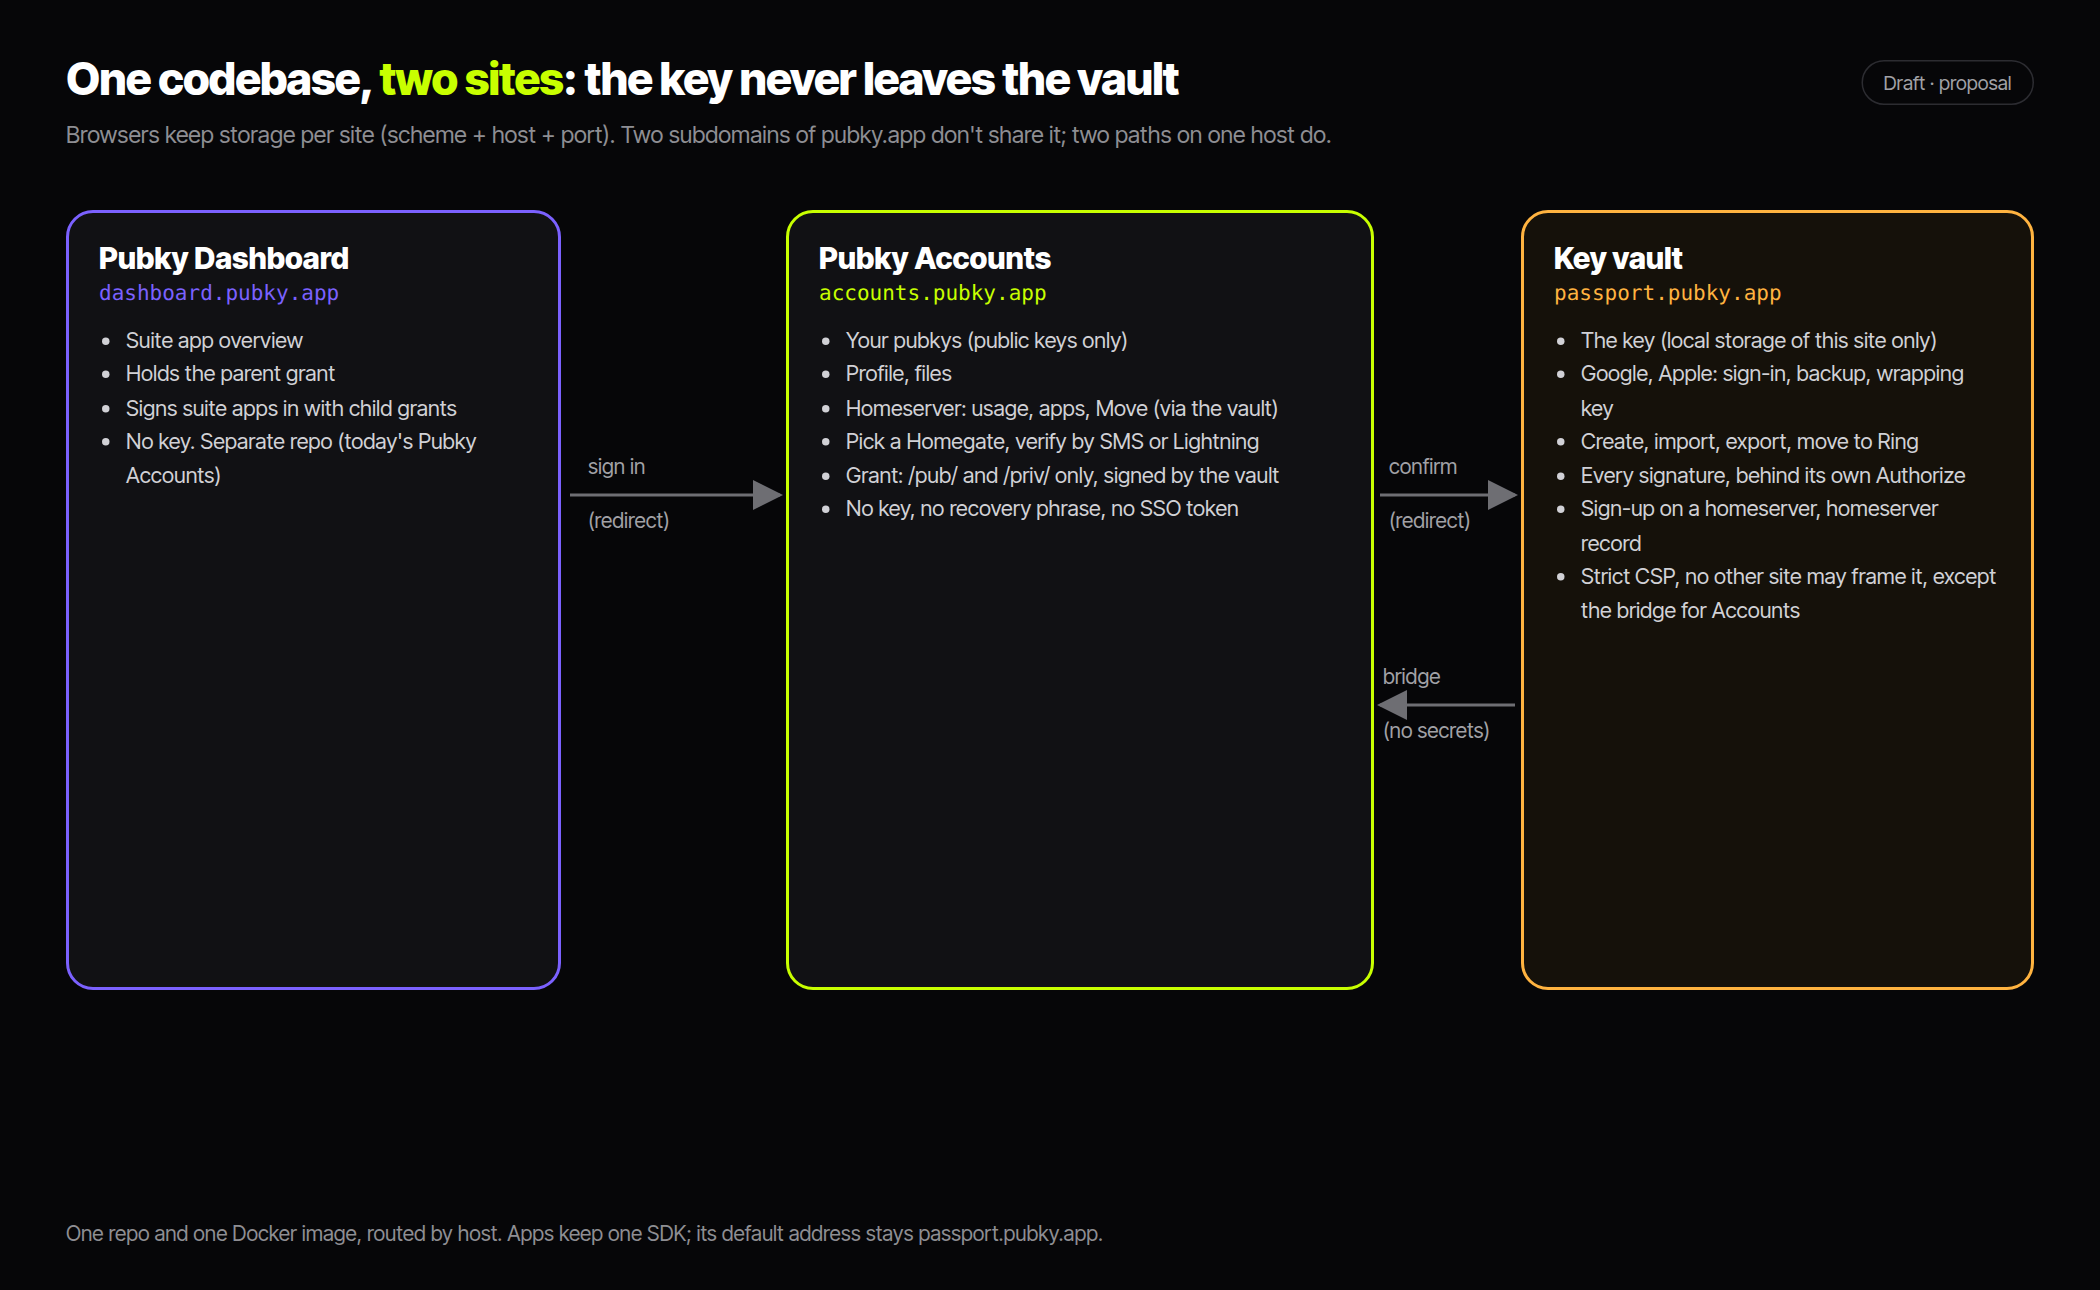
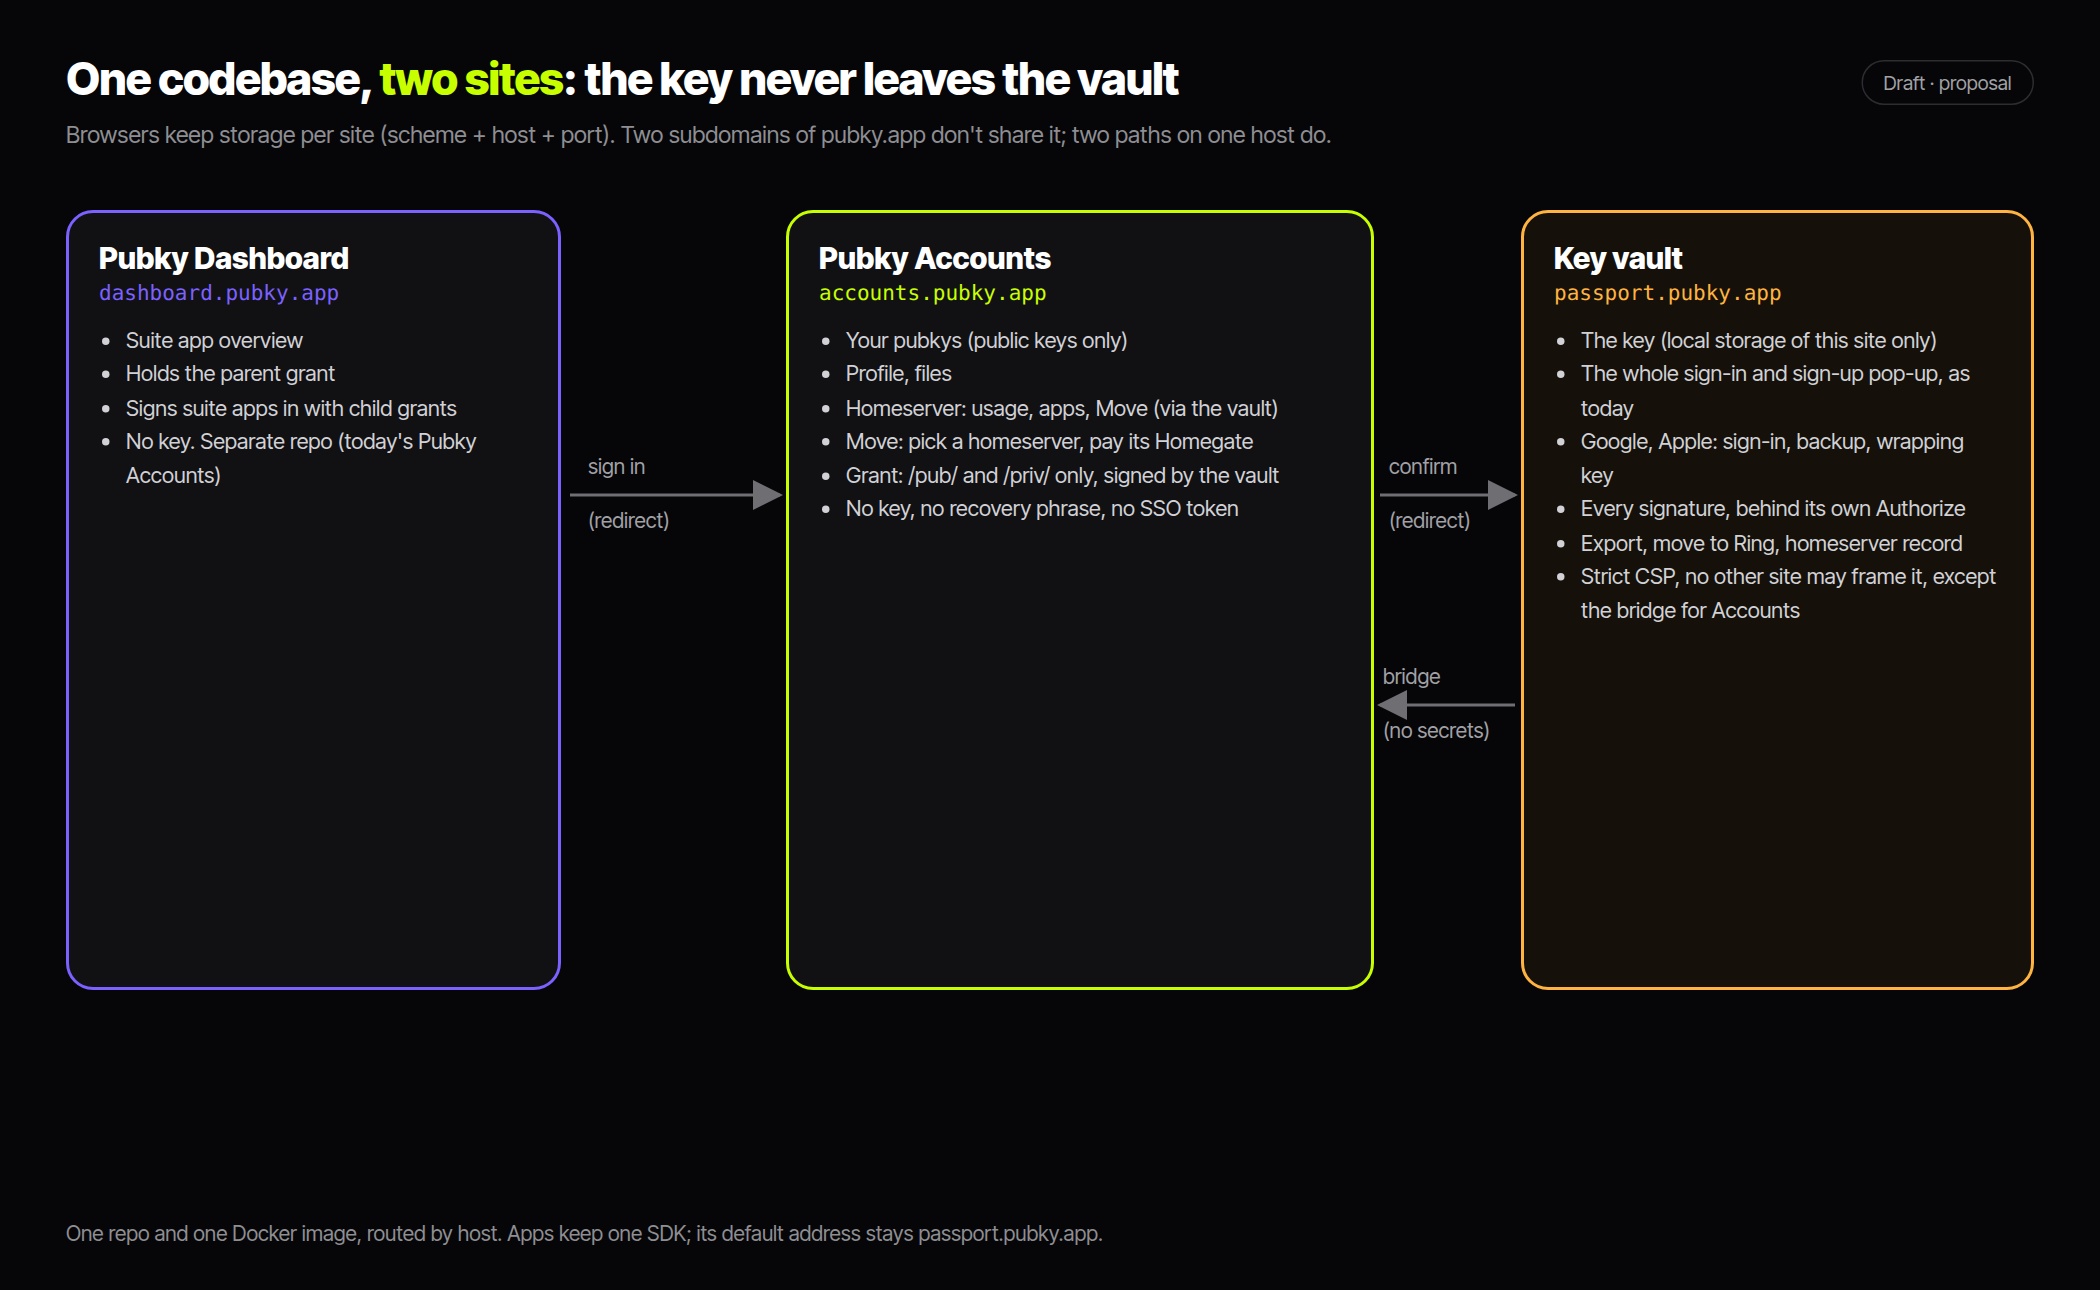
docs: key vault design, same screens, mockups, bridge and self-hosting

Changed region(s): [[0.7429, 0.2791, 0.9286, 0.4341], [0.4024, 0.3101, 0.5881, 0.3721]]

diff --git a/README.md b/README.md
@@ -45,20 +45,54 @@ If you'd rather show `vault.accounts.pubky.app`, the extra work is listed under 
 **Pubky Accounts** (`accounts.pubky.app`): everything else.
 
 - Your pubkys, from the bridge: public keys, labels and backup status only.
-- Profile, files, homeserver usage, authorized apps.
-- Onboarding steps that need no key: pick a Homegate, verify by SMS or Lightning, the profile step.
+- Profile editing, files, homeserver usage, authorized apps: everything that shows data from the homeserver.
+- Move and Mirror up to the key step: pick a homeserver and pay its Homegate.
 - Its own homeserver session: a grant for client id `accounts.pubky.app` with `/pub/:rw,/priv/:rw`. This is the same cap an Accounts child grant has. The vault signs it (see "Signing policy").
 
 **Pubky Dashboard** (`dashboard.pubky.app`): today's Pubky Accounts repo, renamed. It redirects to the vault for sign-in and the parent grant approval, as in RFC 0001 A.1. No change to its code beyond the address.
 
 ## Sign-in and sign-up, step by step
 
-The pop-up, or the tab when a pop-up can't open, moves between hosts by redirect. Clicks are the same as the "B" mockups.
+The whole sign-in and sign-up pop-up stays on the vault, exactly as Passport today: sign-in, Create, Homegate and verify (SMS, Lightning, Google, Apple), key, backup, the profile step and Authorize. The profile step only writes what you type, and for `profile=required` it only checks that `profile.json` exists, so the vault never shows data other apps wrote.
 
-- **External app:** pop-up → vault `/authorize` → sign in → vault review → Authorize → back to the app.
-- **Suite app:** pop-up → Dashboard → vault `/authorize` → sign in → vault review of the parent grant → Dashboard → app.
-- **Sign-up:** vault `/authorize` → Create a pubky → Accounts `/create`, where you pick a Homegate and verify by SMS or Lightning → back to the vault with the sign-up code → key, sign-up, backup → Accounts `/welcome` for the profile step, using its grant → vault review → app.
-- **Sign-up with Google or Apple:** today one ID token is sent both to Homegate for the sign-up code and to the server for the wrapping key, so this verification happens on the vault, not on Accounts.
+- **External app:** pop-up → vault for every screen → back to the app. No change from today.
+- **Suite app:** pop-up → Dashboard → vault → Dashboard → app. Only the name changes.
+- **Google or Apple sign-up:** today one ID token is sent both to Homegate for the sign-up code and to the server for the wrapping key (`GoogleIdentityLifecycle.ts:314-355`). That's one more reason this step stays on the vault.
+
+## Same screens? What exactly is different
+
+![Where each step runs](flows.png)
+
+Every screen keeps its design; only the address bar shows which host renders it. Vault screens carry a small "key vault" tag in the mockups. Whether to show one in the product is up to design.
+
+- **Sign-in and sign-up pop-up:** no change, still `passport.pubky.app`.
+- **Suite apps:** Dashboard instead of Pubky Accounts; the name only.
+- **Profile, files, homeserver tools:** open on `accounts.pubky.app` instead of `passport.pubky.app`. Same screens, same clicks.
+- **First visit to Accounts in a browser:** a short "Connecting to your key vault…" while the bridge signs Accounts' access. No click if the vault has the key here. With the key in Ring, you sign in through the vault as usual.
+- **Key actions started in Accounts** (Move, Mirror, show the recovery phrase, move to Ring, attach Google or Apple, remove an identity): the tab switches to `passport.pubky.app` for one confirm screen, then comes back. Move gets one extra click (the confirm), 4 instead of 3. Showing the phrase gets none.
+- **Branding:** the screens say Pubky Accounts while the pop-up address says `passport.pubky.app`. Moving the vault to `vault.accounts.pubky.app` fixes that, at the cost listed below.
+
+Mockups (draft, not live):
+
+**Sign up from an external app**, no change:
+
+![](gif/signup-ext.gif)
+
+**Sign up from a suite app**, through the Dashboard:
+
+![](gif/signup-suite.gif)
+
+**Edit profile from an app**, on Accounts, with access from the vault:
+
+![](gif/edit.gif)
+
+**Move homeserver**, Accounts → vault confirm → Accounts:
+
+![](gif/move.gif)
+
+**Show the recovery phrase**, only the vault renders it:
+
+![](gif/export.gif)
 
 ## Signing policy (in the vault, not in Accounts)
 
@@ -84,7 +118,21 @@ What isolation then buys: a bug or bad dependency on Accounts gets at most `/pub
 - `grants.revoke(grantId)` needs no confirm: at worst an attacker signs you out of apps.
 - `confirm.start(op, params)` returns the vault URL to send the browser to; `confirm.result(id)` reads the outcome after the redirect back.
 
-Iframe storage: browsers split a framed site's storage by the top site, but `accounts.pubky.app` and `passport.pubky.app` are the same site, so the bridge sees the vault's normal storage. To verify on staging in Chrome, Firefox and Safari.
+### Does the bridge hit the old iframe problems?
+
+No. The problems we listed for embedding Passport came from framing it inside *other* sites:
+
+- **Storage split by top site.** Chrome, Firefox and Safari give a framed site separate storage for each top site it's framed under, so a Passport frame on example.com would start empty. The bridge is only framed by `accounts.pubky.app`. `accounts.pubky.app` and `passport.pubky.app` count as the same site, because `pubky.app` is not on the Public Suffix List (only `app` is; checked). So the bridge reads the vault's normal storage.
+- **Google and Apple inside a frame.** The bridge never signs in to Google or Apple. Those pop-ups only open from full vault pages, as today.
+- **Clickjacking.** The bridge has no buttons. Every click that signs runs on a full vault page that can't be framed.
+
+What could still split the bridge's storage, and the guards for it:
+
+- **Accounts framed by another site.** That gives the bridge a cross-site parent, and Chrome then splits its storage. Guard: `frame-ancestors 'none'` on every Accounts page.
+- **Strict privacy modes or extensions** that block or wipe frame storage. Guard: when the bridge answers "no identities" but Accounts had one before, Accounts redirects once to the vault (top-level, no click) and back.
+- **Still to test on staging:** Chrome, Firefox, Safari, plus Safari's private mode and Brave.
+
+If we want no frame at all: Accounts gets its access and the identity list from one redirect through the vault on first visit. It then asks for usage and the authorized apps the same way, which means more page switches.
 
 ## Codebase
 
@@ -98,9 +146,8 @@ src/
                   authorization/approve, signup with code
     ui/           vault screens
     bridge/       bridge server + signing policy
-  accounts/       profile, files, homeserver tools, identities overview,
-                  Homegate SMS/Lightning steps
-  shared/         vault-protocol schemas, UI kit, logger, Result
+  accounts/       profile editing, files, homeserver tools, identities overview
+  shared/         vault-protocol schemas, UI kit, Homegate client, logger, Result
   server/         wrapping-key routes (vault host only)
   app/(vault)/    routes served on the vault host
   app/(accounts)/ routes served on the accounts host
@@ -118,7 +165,17 @@ Guards, so the split holds after refactors:
   - CSP per host: vault `connect-src` lists only the homeservers, relays, Homegate, Google/Apple and Drive/CloudKit endpoints; `frame-ancestors` is `'none'` except the bridge
 - e2e: after sign-in, no `pubky-passport/local-identities` key exists on the accounts origin, and Accounts' session caps are `/pub/:rw,/priv/:rw`.
 
-Running it: env `VAULT_ORIGIN` and `ACCOUNTS_ORIGIN`. Locally that's two ports, for example `localhost:3000` and `localhost:3001`; different ports are different origins, so dev has the same isolation. Self-hosters run one image on two subdomains.
+## Self-hosting and decentralization
+
+Still easy. It costs one more hostname, nothing else.
+
+- **Run it:** the same Docker image with two env vars, `VAULT_ORIGIN` and `ACCOUNTS_ORIGIN`, plus two DNS names and TLS for both (one wildcard certificate covers them). Locally that's two ports, for example `localhost:3000` and `localhost:3001`. Different ports are different origins, so dev has the same isolation.
+- **Google and Apple:** register only the vault host, as you register the Passport host today. Self-hosters without SSO skip this.
+- **One-host mode:** if `ACCOUNTS_ORIGIN` equals `VAULT_ORIGIN`, everything runs on one host, as Passport does today, without the isolation. That's fine for dev or a personal instance, and the docs say what it gives up.
+- **Apps:** the SDK keeps one setting, `instance` (the vault address, default `passport.pubky.app`). Apps never need to know the Accounts address: each vault redirects to its own paired Accounts host from config, and the bridge only accepts that origin.
+- **Homegate and homeserver choice:** unchanged. Any vault can sign up through any Homegate, or straight on a homeserver with an invite code.
+- **What stays tied to an instance:** an SSO backup still opens only through the vault that made its backup key, the same as today. Recovery phrase, recovery file and Mobile Signer work on any instance.
+- **Harder than today:** one more hostname to run. The vault's CSP and bridge have to name the paired Accounts origin, read from env.
 
 ## Order of work
 
